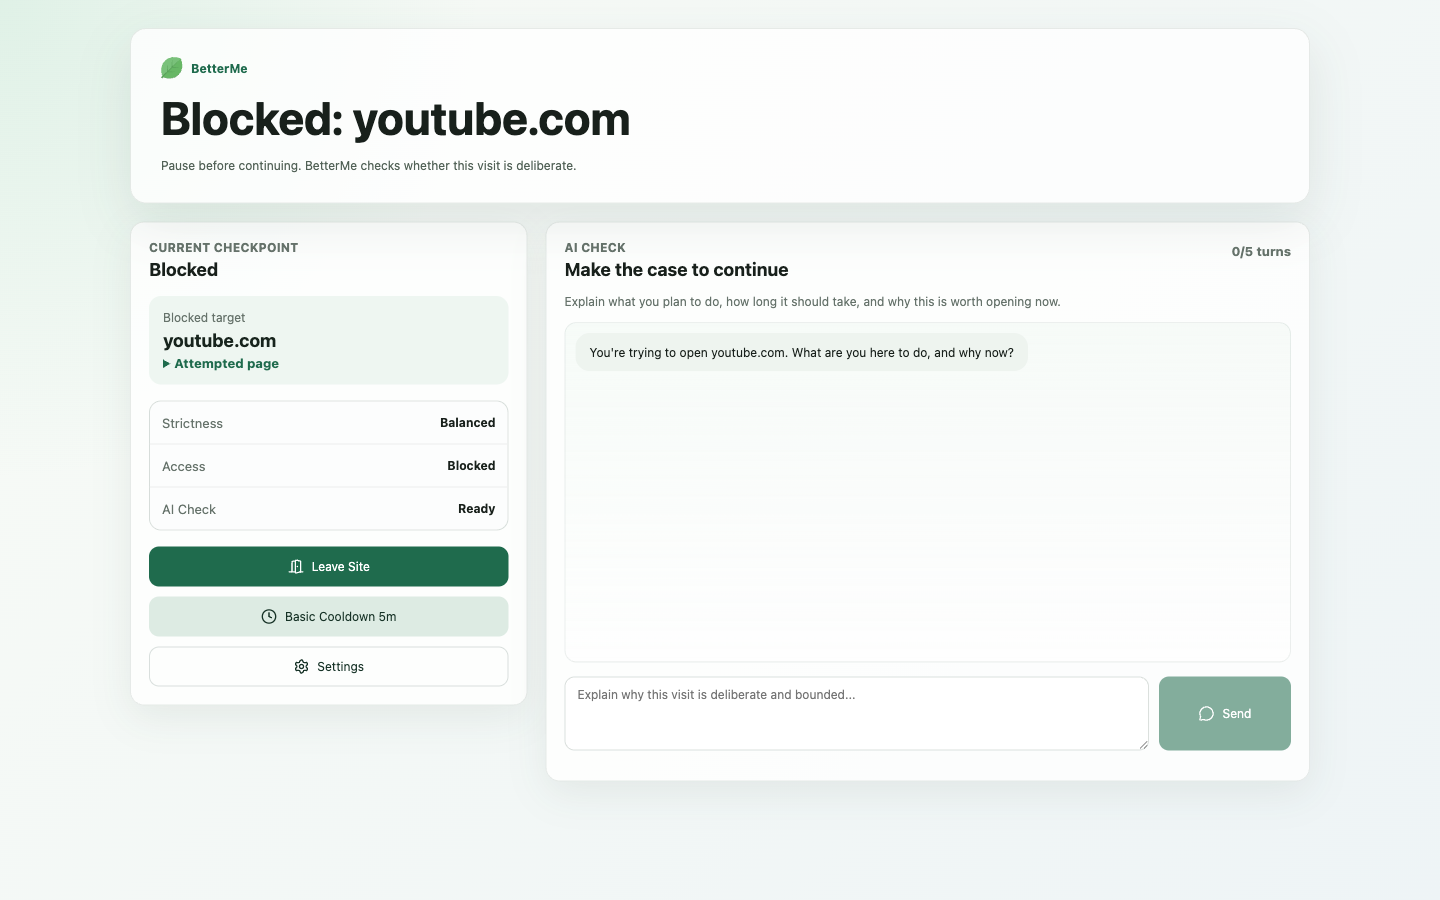
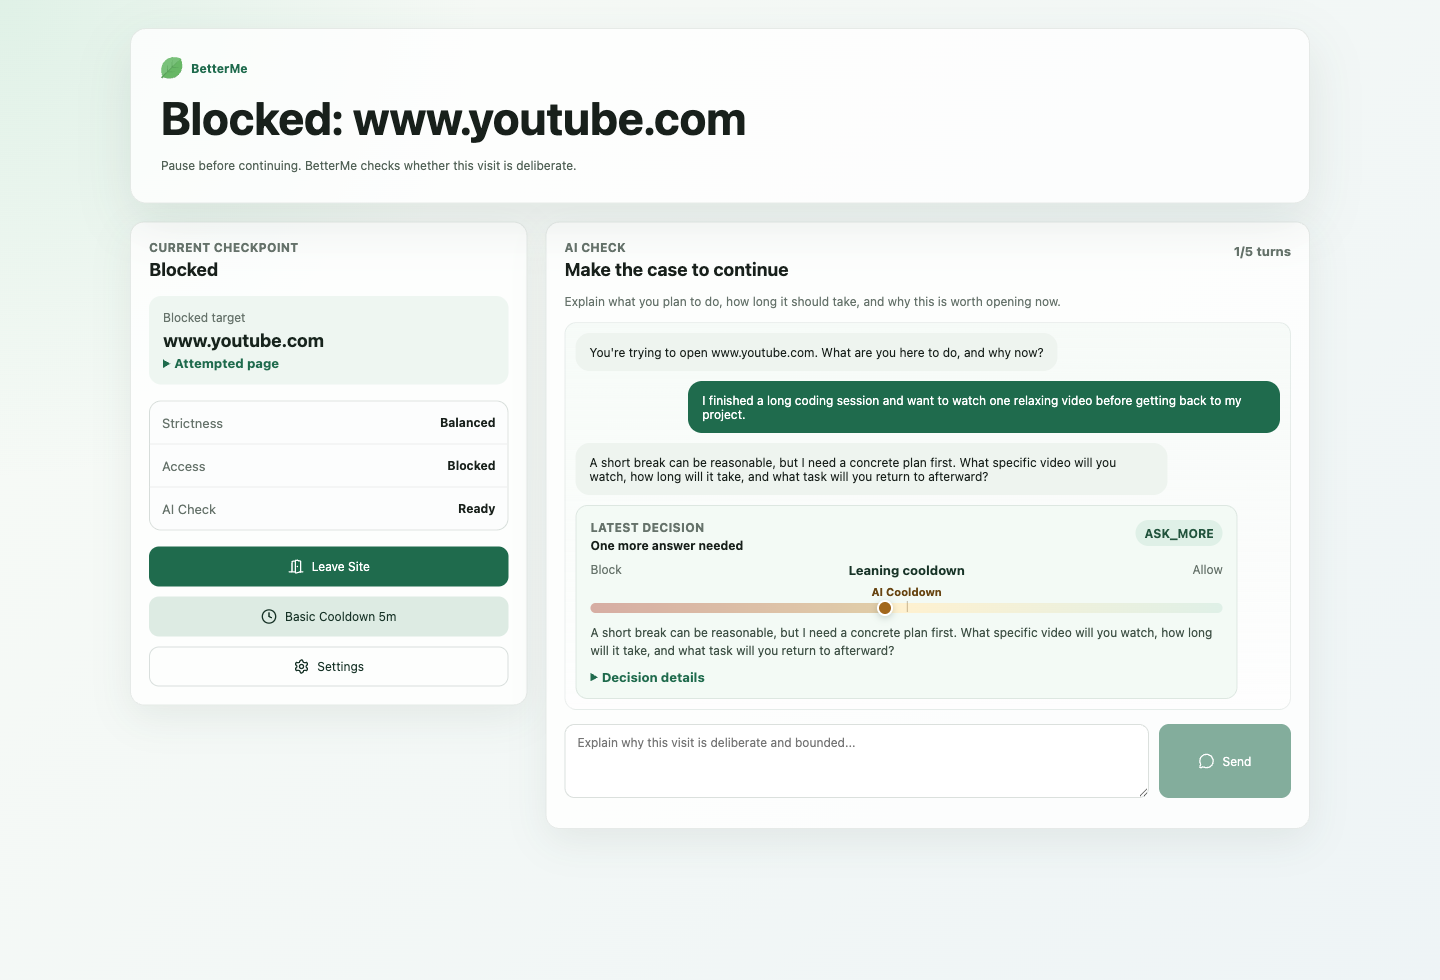
Polish public portfolio README

diff --git a/README.md b/README.md
@@ -1,75 +1,102 @@
 # BetterMe
 
-BetterMe is a Chrome extension for people who want friction before opening distracting websites. When a user tries to visit a blocked site, BetterMe redirects them to an AI checkpoint and asks them to explain their purpose, time boundary, and exit plan before access is allowed.
+> A Chrome MV3 extension that adds an AI checkpoint before distracting websites, turning a user's stated purpose, time boundary, and exit plan into a concrete product outcome: allow, ask more, start a cooldown, or block.
+
+Most website blockers are binary: a site is either blocked or unblocked. BetterMe treats self-control as a decision moment. The user attempts a guarded site, gets redirected to a checkpoint, explains why access is needed now, and receives an outcome based on intent quality, recent behavior, strictness, and risk.
+
+This repository is the public portfolio version of BetterMe. It shows the extension architecture, AI Check decision loop, local PM Review workspace, evaluation tooling, and design process. Production backend, payment, account, and private launch work live outside this public repo.
+
+## Contents
+
+<p align="center">
+  <a href="#product-demo"><strong>Product Demo</strong></a>
+  ·
+  <a href="#product-idea"><strong>Product Idea</strong></a>
+  ·
+  <a href="#what-i-built"><strong>What I Built</strong></a>
+  ·
+  <a href="#technical-highlights"><strong>Technical Highlights</strong></a>
+</p>
+
+<p align="center">
+  <a href="#repository-map"><strong>Repository Map</strong></a>
+  ·
+  <a href="#data-persistence-note"><strong>Data Persistence</strong></a>
+  ·
+  <a href="#run-locally"><strong>Run Locally</strong></a>
+  ·
+  <a href="#validation"><strong>Validation</strong></a>
+</p>
+
+<p align="center">
+  <a href="#public-design-notes"><strong>Public Design Notes</strong></a>
+  ·
+  <a href="#portfolio-notes"><strong>Portfolio Notes</strong></a>
+  ·
+  <a href="#scope"><strong>Scope</strong></a>
+</p>
 
 ## Product Demo
 
-### The Core Moment: Redirected Checkpoint
+### Demo Video
 
-The main product experience is the redirected page. BetterMe interrupts the habit loop at the exact moment the user tries to open a distracting site, then asks them to make the visit intentional.
+> Placeholder: upload a short BetterMe demo video through GitHub's web UI, then replace this block with the generated video asset link.
+
+### Redirected AI Check
+
+BetterMe interrupts the habit loop at the moment the user tries to open a guarded site.
 
 ![BetterMe Redirected AI Check](docs/assets/readme/redirected-ai-check.png)
 
-### Personal Boundaries
+### Settings and Provider Setup
 
-Users choose the domains or exact URLs they want BetterMe to guard, set checkpoint strictness, and connect their own OpenAI-compatible provider key.
+Users choose guarded domains or URLs, set checkpoint strictness, and connect an OpenAI-compatible provider key.
 
 ![BetterMe Settings](docs/assets/readme/settings-provider-setup.png)
 
-### PM Review Loop
+### PM Review
 
-The PM Review workspace makes AI behavior inspectable: reviewers can see what the model received, what it returned, and how that decision should be evaluated in future cases.
+The PM Review workspace makes model behavior inspectable: what the model saw, what it returned, and how that decision can become a future evaluation case.
 
 ![PM Review Provider Messages](docs/assets/readme/pm-review-provider-messages.png)
 
-## Product Story
+### Run Review Console
 
-Most website blockers are binary: a site is either blocked or unblocked. BetterMe treats self-control as a decision moment:
+Experiment Lab turns evaluation runs into reviewable evidence: pass/fail metrics, run history, release-gate checks, and case-level drilldown.
 
-1. The user attempts to open a distracting site.
-2. BetterMe redirects them to a checkpoint instead of the site.
-3. The user explains why they need access now.
-4. The AI checkpoint classifies the request as clear, vague, repeated, or risky.
-5. BetterMe turns that decision into a product outcome: allow, ask one more question, start a cooldown, or block.
-6. Bad or surprising decisions can be reviewed and turned into evaluation cases.
+![Run Review Console](docs/assets/readme/run-review-console.png)
 
-The product goal is to make impulsive browsing slower, more explicit, and easier to learn from.
-
-## Product System
+## Product Idea
 
 ```mermaid
 flowchart LR
-  User["User"] --> Setup["Sets personal rules"]
-  User --> Attempt["Attempts blocked site"]
-
-  subgraph BetterMe["BetterMe Product"]
-    Setup --> Checkpoint["Redirected AI checkpoint"]
-    Attempt --> Checkpoint
-    Checkpoint --> Decision["Decision: allow, ask more, cooldown, block"]
-    Decision --> Outcome["Local outcome for this visit"]
-    Decision --> Review["PM review when behavior is wrong or surprising"]
-    Review --> Eval["Evaluation case"]
-    Eval -. improves .-> Checkpoint
-  end
+  User["User"] --> Attempt["Attempts guarded site"]
+  Attempt --> Checkpoint["AI checkpoint"]
+  Checkpoint --> Decision["Structured decision"]
+  Decision --> Outcome["Local product outcome"]
+  Decision --> Review["PM review"]
+  Review --> Eval["Evaluation case"]
+  Eval -. improves .-> Checkpoint
 ```
 
-This is the architecture from a user's point of view: setup creates the boundary, the redirected checkpoint handles the moment of temptation, local outcomes enforce the decision, and PM review keeps the AI behavior from staying a black box.
-
-## What a PM Interviewer Should Notice
-
-- **Clear user problem**: the product targets a specific high-friction moment, not a broad productivity dashboard.
-- **Concrete behavior loop**: blocked attempt -> checkpoint -> structured decision -> local outcome.
-- **AI as product logic**: the model does not just chat; it drives visible product states.
-- **Failure handling**: bad AI decisions can become review cases and regression cases.
-- **Scope discipline**: the MVP focuses on a Chrome extension, BYOK provider setup, local enforcement, and PM review before adding social or cloud features.
+The model does not just chat. It drives product state.
 
 ## What I Built
 
-- A Chrome MV3 extension with settings, popup, redirected block page, onboarding, and PM Review surfaces.
-- A checkpoint flow that turns a blocked-site attempt into a structured AI decision.
-- Local state for blocked targets, temporary access, cooldowns, review cases, evaluation cases, and encrypted provider settings.
-- A PM Review workspace that connects product review with AI evaluation cases.
-- Validation scripts for type checking, extension builds, AI Check behavior, and browser flows.
+- Chrome MV3 extension with popup, settings, onboarding, redirected block page, and PM Review surfaces.
+- AI Check session flow with bounded turns, strictness, provider calls, schema parsing, and product outcomes.
+- Local persistence for blocked targets, cooldowns, temporary unlocks, AI sessions, behavior events, pattern memory, PM reviews, eval cases, eval jobs, and run results.
+- Contract-first AI Check schema for prompt-visible input/output and evaluation expectations.
+- Prompt Engineering Console with case library, provider message reference, eval runs, A/B comparison, release gate, and run review.
+- Validation scripts for typecheck, build, AI Check logic, contract validation, eval runs, and browser E2E.
+
+## Technical Highlights
+
+- **MV3 architecture**: service worker message routing, declarativeNetRequest rules, redirected block page, and content script expiry guard.
+- **AI as deterministic product logic**: provider output is parsed into a strict JSON decision contract before product state changes.
+- **Local-first privacy boundary**: AI Check sessions, eval runs, review artifacts, and provider keys stay in extension storage in this public MVP.
+- **Prompt engineering workflow**: bad decisions can become structured evaluation cases, then feed regression runs and prompt comparison.
+- **Reviewability**: PM Review shows provider messages, output schema, evaluation schema, run results, and release-gate evidence.
 
 ## Repository Map
 
@@ -77,15 +104,22 @@ This is the architecture from a user's point of view: setup creates the boundary
 apps/extension/
   src/pages/              Extension pages and PM Review UI
   src/blocking/           Access rules, cooldowns, unlocks, and holds
-  src/ai/                 AI Check conversation, provider call, parsing, review store
-  src/background/         Chrome extension service worker and routing
-  src/shared/             Shared contracts, provider metadata, and constants
-  src/storage/            Local persistence and encrypted provider-key storage
-  evals/ai-check-cases/   Saved AI Check evaluation cases
+  src/ai/                 AI Check, provider calls, prompt/context, eval/review logic
+  src/background/         MV3 service worker and message router
+  src/shared/             Contracts, provider metadata, constants, shared types
+  src/storage/            IndexedDB, chrome.storage, encrypted provider-key storage
+  evals/ai-check-cases/   Built-in AI Check evaluation cases
 
-docs/design/              Product design, progress, and issue notes
+docs/design/              Implementation-linked design/progress/issues notes
+docs/portfolio/           Public-facing project notes
 docs/assets/readme/       README screenshots
 ```
+
+## Data Persistence Note
+
+BetterMe stores AI Check history, PM Review data, eval cases, eval jobs, eval runs, and eval results locally in the extension's IndexedDB. If the extension is uninstalled, Chrome removes that extension storage. Reinstalling the extension starts with a fresh local database.
+
+More detail: [Data Persistence](docs/portfolio/data-persistence.md)
 
 ## Run Locally
 
@@ -112,22 +146,29 @@ npm run dev
 ```bash
 npm run typecheck
 npm run build
+npm --workspace apps/extension run check:ai-check-contract
 npm --workspace apps/extension run test:ai-check
 npm --workspace apps/extension run eval:ai-check
 npm --workspace apps/extension run test:e2e
 ```
 
-## Design Notes
-
-The project keeps implementation-linked design notes under `docs/design/`.
+## Public Design Notes
 
 | Topic | Design | Progress | Issues |
 | --- | --- | --- | --- |
 | Access state and local enforcement | [design](docs/design/2026-05-12-access-state-design.md) | [progress](docs/design/2026-05-12-access-state-progress.md) | [issues](docs/design/2026-05-12-access-state-issues.md) |
 | AI Check session state machine | [design](docs/design/2026-05-12-ai-check-session-state-machine-design.md) | [progress](docs/design/2026-05-12-ai-check-session-state-machine-progress.md) | [issues](docs/design/2026-05-12-ai-check-session-state-machine-issues.md) |
 | PM Review workspace | [design](docs/design/2026-05-20-pm-review-workspace-design.md) | [progress](docs/design/2026-05-20-pm-review-workspace-progress.md) | [issues](docs/design/2026-05-20-pm-review-workspace-issues.md) |
-| Provider message contract | [design](docs/design/2026-05-21-ai-check-provider-message-contract-design.md) | [progress](docs/design/2026-05-21-ai-check-provider-message-contract-progress.md) | [issues](docs/design/2026-05-21-ai-check-provider-message-contract-issues.md) |
+| AI Check contract SSOT | [design](docs/design/2026-05-22-ai-check-contract-ssot-design.md) | [progress](docs/design/2026-05-22-ai-check-contract-ssot-progress.md) | [issues](docs/design/2026-05-22-ai-check-contract-ssot-issues.md) |
+| Prompt Engineering Console | [design](docs/design/2026-05-24-prompt-engineering-console-design.md) | [progress](docs/design/2026-05-24-prompt-engineering-console-progress.md) | [issues](docs/design/2026-05-24-prompt-engineering-console-issues.md) |
+| Eval Job Model | [design](docs/design/2026-05-25-eval-job-model-design.md) | [progress](docs/design/2026-05-25-eval-job-model-progress.md) | [issues](docs/design/2026-05-25-eval-job-model-issues.md) |
+| Run Review Console | [design](docs/design/2026-05-25-run-review-console-design.md) | [progress](docs/design/2026-05-25-run-review-console-progress.md) | [issues](docs/design/2026-05-25-run-review-console-issues.md) |
 
-## Current Scope
+## Portfolio Notes
 
-BetterMe is an MVP and portfolio project. The current scope focuses on the local browser experience, AI checkpoint decisioning, PM review, and evaluation loop. It does not yet include a mobile app, accountability partner workflows, community features, or a cloud sync product.
+- [Project Overview](docs/portfolio/project-overview.md)
+- [Data Persistence](docs/portfolio/data-persistence.md)
+
+## Scope
+
+This public repo is intentionally focused on the browser extension MVP and portfolio-friendly AI product engineering work. Backend ingestion, account, subscription, payment, and private production roadmap work are excluded from this public version.

diff --git a/docs/portfolio/project-overview.md b/docs/portfolio/project-overview.md
@@ -1,0 +1,52 @@
+# BetterMe Project Overview
+
+BetterMe is a portfolio project demonstrating AI product engineering inside a Chrome extension.
+
+The product goal is to create intentional friction before distracting websites. The user can still access a guarded site, but only after passing through an AI checkpoint that asks for purpose, time boundary, and exit plan.
+
+## Product Loop
+
+```text
+Attempt guarded site
+  -> redirected checkpoint
+  -> AI structured decision
+  -> local enforcement outcome
+  -> PM review for bad or surprising decisions
+  -> evaluation case
+  -> prompt and policy improvement
+```
+
+## Why It Is Interesting
+
+- The AI is not decorative. Its parsed output changes product state.
+- The model is constrained by a contract and parser instead of free-form chat.
+- The extension has local enforcement primitives: block holds, cooldowns, temporary unlocks, and target-scoped memory.
+- AI failures are not ignored. They become review artifacts and evaluation cases.
+- The PM Review workspace makes prompt behavior inspectable through provider messages, schema reference, eval runs, and run review.
+
+## Main Engineering Areas
+
+- Chrome MV3 service worker and message routing.
+- DeclarativeNetRequest target blocking.
+- Redirected block page as the main product surface.
+- AI Check session state machine.
+- Provider request builder and JSON parser.
+- Local IndexedDB persistence.
+- Prompt/evaluation contract generation.
+- Evaluation runner, durable eval jobs, and run review.
+- Browser E2E coverage.
+
+## Public vs Production Scope
+
+This public repository is kept as a portfolio and technical case-study artifact.
+
+Excluded from this public repo:
+
+- production backend.
+- account system.
+- subscription and payment logic.
+- production deployment.
+- private launch and compliance materials.
+- real user feedback ingestion.
+
+Those concerns belong to the private production repo.

diff --git a/docs/portfolio/data-persistence.md b/docs/portfolio/data-persistence.md
@@ -1,0 +1,44 @@
+# BetterMe Data Persistence
+
+BetterMe is local-first in this public MVP.
+
+## Where Data Lives
+
+Chrome extension settings and product state use:
+
+- `chrome.storage.local` for settings and local domain state.
+- Extension IndexedDB for AI Check sessions, messages, decisions, review data, eval cases, eval jobs, eval runs, eval results, prompt comparisons, and local review artifacts.
+
+Important IndexedDB stores include:
+
+- `aiCheckSessions`
+- `aiCheckMessages`
+- `checkpointDecisions`
+- `behaviorEvents`
+- `patternMemories`
+- `badCaseReviews`
+- `evalCases`
+- `evalJobs`
+- `evalJobCaseStates`
+- `evalRuns`
+- `evalResults`
+- `promptComparisons`
+- `experiments`
+
+## Why Eval Results Disappear After Reinstall
+
+Chrome removes an extension's local storage and IndexedDB when the extension is uninstalled.
+
+Because `evalRuns` and `evalResults` are local IndexedDB records, uninstalling and reinstalling BetterMe creates a fresh extension storage area. The previous local eval run history is gone unless it was exported before uninstall.
+
+This is expected for the current public MVP.
+
+## Current Recovery Options
+
+The PM Review Experiment Lab can import a saved eval run artifact, and CLI/provider evals can write JSON artifacts for later import.
+
+In-product local eval history is not currently synced to a backend.
+
+## Future Production Direction
+
+The private production roadmap separates local extension state from user-submitted feedback and future backend storage. The first production backend loop should upload only explicit user-submitted feedback, not raw local history.
